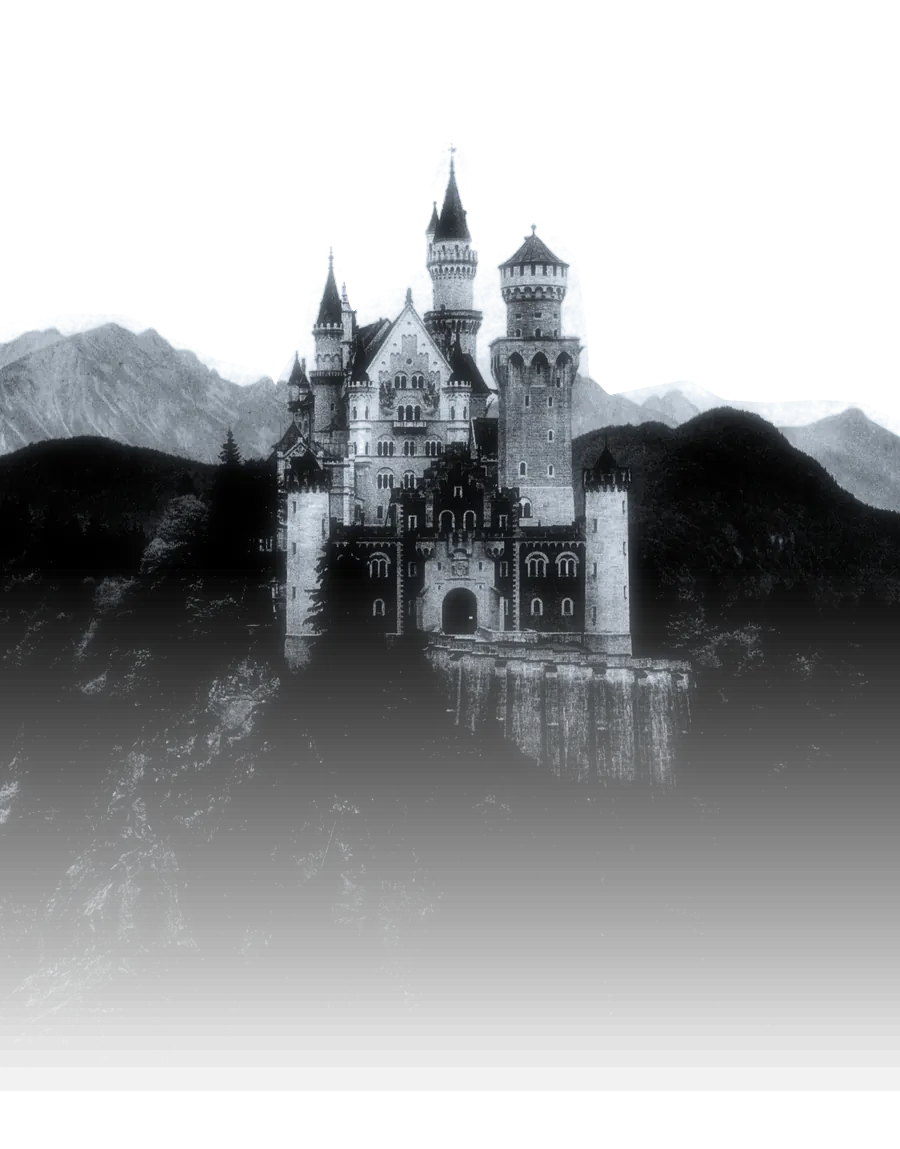
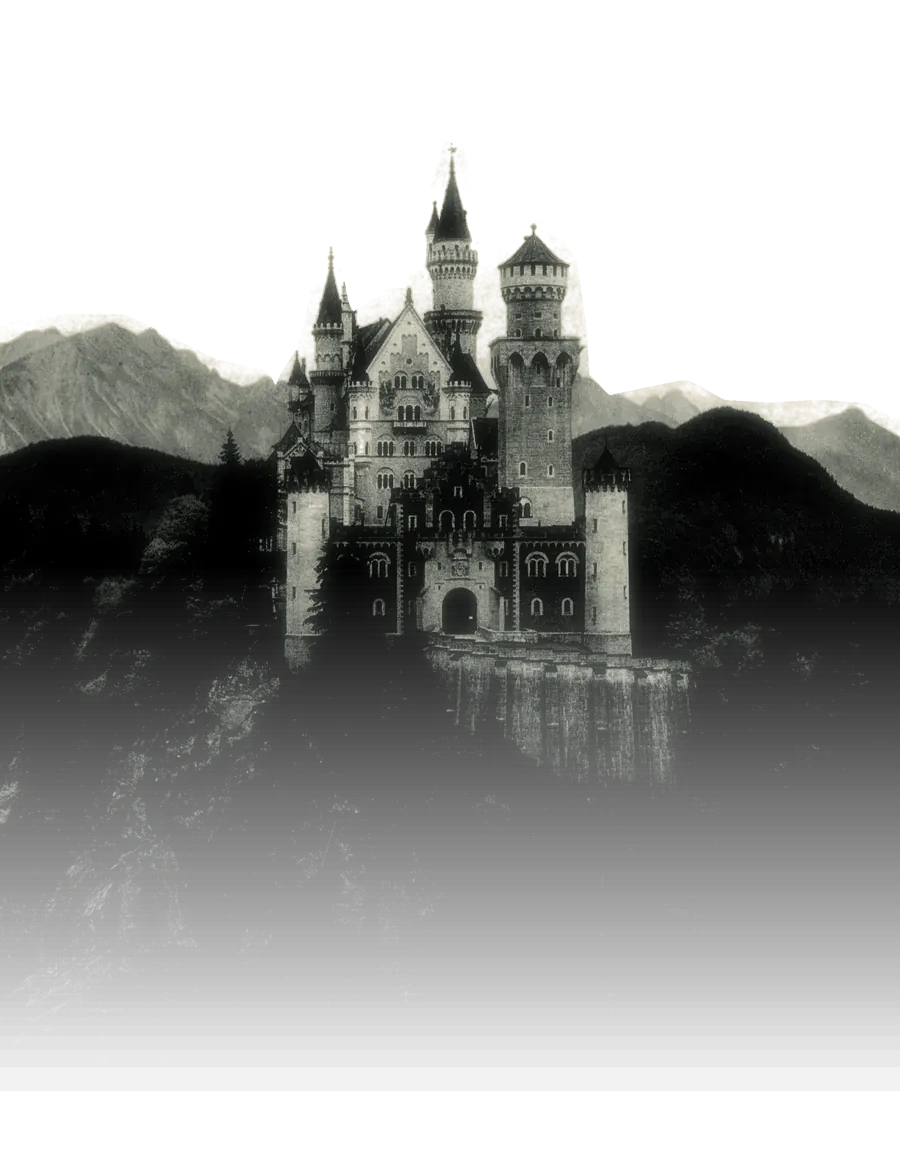
feat(invitation): switch theme to dark bottle green

Changed region(s): [[0.0, 0.1218, 1.0, 0.6092]]

diff --git a/src/app/globals.css b/src/app/globals.css
@@ -9,16 +9,16 @@
   --font-display: var(--font-viaoda), ui-serif, Georgia, serif;
   --font-script: var(--font-pinyon), ui-serif, Georgia, serif;
 
-  --color-midnight: var(--midnight);
-  --color-navy: var(--navy);
-  --color-deep-blue: var(--deep-blue);
+  --color-bottle-deep: var(--bottle-deep);
+  --color-bottle: var(--bottle);
+  --color-bottle-light: var(--bottle-light);
   --color-ivory: var(--ivory);
   --color-paper: var(--paper);
   --color-paper-shade: var(--paper-shade);
   --color-ink: var(--ink);
   --color-ink-muted: var(--ink-muted);
-  --color-hydrangea: var(--hydrangea);
-  --color-hydrangea-deep: var(--hydrangea-deep);
+  --color-sage: var(--sage);
+  --color-sage-deep: var(--sage-deep);
   --color-gold: var(--gold);
   --color-gold-deep: var(--gold-deep);
 
@@ -52,26 +52,27 @@
 :root {
   --radius: 0.625rem;
 
-  /* Night-blue palette. Contrast notes (WCAG):
-     ivory on navy 14.4:1, gold on navy 8:1, hydrangea on navy 9:1,
-     ink on paper 13.6:1, ink-muted on paper 6.3:1, gold-deep on paper 5:1. */
-  --midnight: #04122a;
-  --navy: #0b1f3a;
-  --deep-blue: #1b3a66;
+  /* Bottle-green palette. Contrast notes (WCAG):
+     ivory on bottle 12.8:1, gold on bottle 7.2:1, sage on bottle 7.8:1,
+     sage on bottle-light 4.5:1, ink on paper 14.3:1, ink-muted on paper 6.5:1,
+     gold-deep on paper 5:1, sage-deep on paper 5.7:1. */
+  --bottle-deep: #061a12;
+  --bottle: #0b2e22;
+  --bottle-light: #1a5640;
   --ivory: #f4efe6;
   --paper: #faf6ee;
   --paper-shade: #ece3d2;
-  --ink: #14284b;
-  --ink-muted: #4b5b78;
-  --hydrangea: #a9c1e3;
-  --hydrangea-deep: #4f72a6;
+  --ink: #13291f;
+  --ink-muted: #4a5e54;
+  --sage: #a9c3b0;
+  --sage-deep: #3f6b54;
   --gold: #d4b06a;
   --gold-deep: #8a6420;
 
   /* Ornament strokes; sky contexts override them with brighter tones. */
   --ornament-line: var(--gold-deep);
-  --ornament-petal: color-mix(in oklab, var(--hydrangea) 60%, transparent);
-  --ornament-petal-stroke: var(--hydrangea-deep);
+  --ornament-petal: color-mix(in oklab, var(--sage) 60%, transparent);
+  --ornament-petal-stroke: var(--sage-deep);
 
   /* Foil gradients for display text: bright on the night sky, deep on paper
      (darkest stops keep large text above 3:1 on its background). */
@@ -92,24 +93,24 @@
     #6e4f17 100%
   );
 
-  --background: var(--midnight);
+  --background: var(--bottle-deep);
   --foreground: var(--ivory);
   --card: var(--paper);
   --card-foreground: var(--ink);
   --popover: var(--paper);
   --popover-foreground: var(--ink);
-  --primary: var(--navy);
+  --primary: var(--bottle);
   --primary-foreground: var(--ivory);
   --secondary: var(--paper-shade);
   --secondary-foreground: var(--ink);
   --muted: var(--paper-shade);
   --muted-foreground: var(--ink-muted);
-  --accent: #e3ebf6;
+  --accent: #e4ede6;
   --accent-foreground: var(--ink);
   --destructive: #a33a2a;
   --border: #d9cdb5;
-  --input: #6b7a93;
-  /* Focus ring: 3.7:1 on paper and 4.2:1 on navy. */
+  --input: #6b7f74;
+  /* Focus ring: 3.7:1 on paper, 3.7:1 on bottle and 4.6:1 on bottle-deep. */
   --ring: #a07a30;
 }
 
@@ -141,9 +142,9 @@
     @apply border-border outline-ring/50;
   }
   html {
-    @apply bg-midnight;
+    @apply bg-bottle-deep;
   }
-  /* No body background: <html> already paints midnight, and a body background
+  /* No body background: <html> already paints bottle-deep green, and a body background
      would cover the fixed night sky that sits at a negative z-index. */
   body {
     @apply text-foreground font-sans;
@@ -152,6 +153,6 @@
     @apply outline-ring outline-2 outline-offset-2;
   }
   ::selection {
-    @apply bg-hydrangea text-ink;
+    @apply bg-sage text-ink;
   }
 }

diff --git a/src/styles/components/atoms/night-sky.css b/src/styles/components/atoms/night-sky.css
@@ -3,15 +3,15 @@
   background-image:
     radial-gradient(
       ellipse 120% 55% at 50% -12%,
-      color-mix(in oklab, var(--deep-blue) 80%, transparent),
+      color-mix(in oklab, var(--bottle-light) 80%, transparent),
       transparent 70%
     ),
     radial-gradient(
       ellipse 90% 45% at 50% 112%,
-      color-mix(in oklab, var(--deep-blue) 45%, transparent),
+      color-mix(in oklab, var(--bottle-light) 45%, transparent),
       transparent 70%
     ),
-    linear-gradient(180deg, var(--navy) 0%, var(--midnight) 100%);
+    linear-gradient(180deg, var(--bottle) 0%, var(--bottle-deep) 100%);
 }
 
 .night-sky--contained {
@@ -19,8 +19,8 @@
 }
 
 /* Library of Congress photochrom of Neuschwanstein (public domain), toned
-   ivory/powder blue with a transparent sky: screen blending lets the starry
-   navy show through, and the mask fades its top into the stars. */
+   warm ivory/pale sage with a transparent sky: screen blending lets the starry
+   bottle show through, and the mask fades its top into the stars. */
 .night-sky__castle {
   @apply absolute inset-x-0 top-[28%] -bottom-[18%] bg-cover bg-no-repeat opacity-20 mix-blend-screen;
   background-image: url('/images/neuschwanstein-photochrom-900.webp');
@@ -57,7 +57,7 @@
   @apply -right-28 bottom-[34%] rotate-[160deg];
 }
 
-/* Fine fractal noise, overlay-blended at half strength so the navy reads as
+/* Fine fractal noise, overlay-blended at half strength so the bottle green reads as
    printed stationery; one small tile rasterised once and repeated. */
 .night-sky__grain {
   @apply absolute inset-0 opacity-50 mix-blend-overlay;
@@ -82,7 +82,7 @@
     radial-gradient(1.6px 1.6px at 8% 12%, #f7e7b4, transparent),
     radial-gradient(1.2px 1.2px at 27% 64%, #f3dc9b, transparent),
     radial-gradient(2.2px 2.2px at 46% 22%, #f7e7b4, transparent),
-    radial-gradient(1px 1px at 61% 83%, #e9edf5, transparent),
+    radial-gradient(1px 1px at 61% 83%, #eef2ea, transparent),
     radial-gradient(1.4px 1.4px at 74% 41%, #d4b06a, transparent),
     radial-gradient(1.8px 1.8px at 89% 9%, #f3dc9b, transparent),
     radial-gradient(1.1px 1.1px at 93% 72%, #f7e7b4, transparent),
@@ -95,11 +95,11 @@
 .night-sky__dust--far {
   background-image:
     radial-gradient(1px 1px at 14% 33%, #d4b06a, transparent),
-    radial-gradient(0.9px 0.9px at 36% 8%, #e9edf5, transparent),
+    radial-gradient(0.9px 0.9px at 36% 8%, #eef2ea, transparent),
     radial-gradient(1.2px 1.2px at 52% 52%, #f3dc9b, transparent),
-    radial-gradient(0.8px 0.8px at 68% 27%, #a9c1e3, transparent),
+    radial-gradient(0.8px 0.8px at 68% 27%, #a9c3b0, transparent),
     radial-gradient(1px 1px at 82% 61%, #d4b06a, transparent),
-    radial-gradient(0.9px 0.9px at 6% 77%, #a9c1e3, transparent),
+    radial-gradient(0.9px 0.9px at 6% 77%, #a9c3b0, transparent),
     radial-gradient(1.1px 1.1px at 44% 88%, #f7e7b4, transparent);
   background-size: 190px 190px;
   rotate: 21deg;

diff --git a/src/styles/domains/invitation/gallery-lightbox.css b/src/styles/domains/invitation/gallery-lightbox.css
@@ -11,7 +11,7 @@
 }
 
 .gallery-lightbox::backdrop {
-  background-color: color-mix(in oklab, var(--midnight) 94%, transparent);
+  background-color: color-mix(in oklab, var(--bottle-deep) 94%, transparent);
 }
 
 html:has(.gallery-lightbox[open]) {
@@ -24,7 +24,7 @@ html:has(.gallery-lightbox[open]) {
 
 .gallery-lightbox__close {
   @apply border-gold/60 text-gold col-start-3 row-start-1 mr-4 rounded-full border px-4 py-2 text-[0.7rem] tracking-[0.25em] uppercase;
-  @apply hover:bg-gold hover:text-navy focus-visible:outline-gold focus-visible:outline-2 focus-visible:outline-offset-2;
+  @apply hover:bg-gold hover:text-bottle focus-visible:outline-gold focus-visible:outline-2 focus-visible:outline-offset-2;
 }
 
 .gallery-lightbox__figure {
@@ -41,8 +41,8 @@ html:has(.gallery-lightbox[open]) {
 }
 
 .gallery-lightbox__nav {
-  @apply border-gold/50 bg-navy/70 text-gold z-10 row-start-2 grid size-11 place-items-center rounded-full border backdrop-blur-sm;
-  @apply hover:bg-gold hover:text-navy focus-visible:outline-gold focus-visible:outline-2 focus-visible:outline-offset-2;
+  @apply border-gold/50 bg-bottle/70 text-gold z-10 row-start-2 grid size-11 place-items-center rounded-full border backdrop-blur-sm;
+  @apply hover:bg-gold hover:text-bottle focus-visible:outline-gold focus-visible:outline-2 focus-visible:outline-offset-2;
 }
 
 .gallery-lightbox__nav svg {

diff --git a/src/styles/domains/invitation/invitation-cover.css b/src/styles/domains/invitation/invitation-cover.css
@@ -1,5 +1,5 @@
 .invitation-cover {
-  @apply bg-midnight fixed inset-0 isolate z-50 flex overflow-x-hidden overflow-y-auto overscroll-contain;
+  @apply bg-bottle-deep fixed inset-0 isolate z-50 flex overflow-x-hidden overflow-y-auto overscroll-contain;
   /* Dissolve once the card has risen; keep in sync with the hook timeline. */
   transition:
     opacity 750ms ease 1750ms,
@@ -72,7 +72,7 @@
 }
 
 .invitation-cover__card-ampersand {
-  @apply text-hydrangea-deep mx-1 text-[0.6em];
+  @apply text-sage-deep mx-1 text-[0.6em];
 }
 
 .invitation-cover__text {
@@ -88,7 +88,7 @@
 }
 
 .invitation-cover__greeting {
-  @apply font-script text-hydrangea text-3xl;
+  @apply font-script text-sage text-3xl;
 }
 
 .invitation-cover__text,
@@ -188,7 +188,7 @@
 
 .invitation-cover__button {
   @apply border-gold bg-gold/10 text-gold inline-flex min-h-12 items-center justify-center rounded-full border px-9 text-xs tracking-[0.3em] uppercase transition-colors;
-  @apply hover:bg-gold hover:text-navy focus-visible:outline-gold focus-visible:outline-2 focus-visible:outline-offset-4;
+  @apply hover:bg-gold hover:text-bottle focus-visible:outline-gold focus-visible:outline-2 focus-visible:outline-offset-4;
 }
 
 /* Without JavaScript the envelope could never open: show the page instead. */

diff --git a/src/styles/components/atoms/external-link.css b/src/styles/components/atoms/external-link.css
@@ -1,12 +1,12 @@
 .external-link {
-  @apply border-navy bg-navy text-ivory inline-flex min-h-12 items-center justify-center gap-2 rounded-full border px-7 text-xs tracking-[0.22em] uppercase transition-colors;
-  @apply hover:bg-deep-blue focus-visible:outline-ring focus-visible:outline-2 focus-visible:outline-offset-2;
+  @apply border-bottle bg-bottle text-ivory inline-flex min-h-12 items-center justify-center gap-2 rounded-full border px-7 text-xs tracking-[0.22em] uppercase transition-colors;
+  @apply hover:bg-bottle-light focus-visible:outline-ring focus-visible:outline-2 focus-visible:outline-offset-2;
 }
 
 .external-link--outline {
-  @apply text-ink hover:bg-navy hover:text-ivory bg-transparent;
+  @apply text-ink hover:bg-bottle hover:text-ivory bg-transparent;
 }
 
 .external-link--gold {
-  @apply border-gold bg-gold/10 text-gold hover:bg-gold hover:text-navy;
+  @apply border-gold bg-gold/10 text-gold hover:bg-gold hover:text-bottle;
 }

diff --git a/src/styles/domains/invitation/gallery-section.css b/src/styles/domains/invitation/gallery-section.css
@@ -47,7 +47,7 @@
 }
 
 .gallery-deck-card__link {
-  @apply ring-gold/70 bg-navy relative block size-full overflow-hidden rounded-2xl ring-1;
+  @apply ring-gold/70 bg-bottle relative block size-full overflow-hidden rounded-2xl ring-1;
   @apply focus-visible:outline-gold focus-visible:outline-2 focus-visible:outline-offset-4;
   box-shadow:
     0 26px 40px -22px rgb(0 0 0 / 0.85),
@@ -81,7 +81,7 @@
 /* Swipe is the primary gesture on phones; arrows appear from tablet up. */
 .gallery-deck__arrow {
   @apply border-gold/60 text-gold hidden size-9 flex-none items-center justify-center rounded-full border transition-colors md:flex;
-  @apply hover:bg-gold hover:text-navy focus-visible:outline-gold focus-visible:outline-2 focus-visible:outline-offset-2;
+  @apply hover:bg-gold hover:text-bottle focus-visible:outline-gold focus-visible:outline-2 focus-visible:outline-offset-2;
 }
 
 .gallery-deck__arrow svg {

diff --git a/src/styles/domains/invitation/music-player.css b/src/styles/domains/invitation/music-player.css
@@ -1,9 +1,9 @@
 .music-player {
-  @apply border-gold/80 bg-navy/85 text-gold fixed right-4 z-40 grid size-12 place-items-center rounded-full border backdrop-blur-sm transition-colors;
-  @apply hover:bg-deep-blue focus-visible:outline-gold focus-visible:outline-2 focus-visible:outline-offset-4;
+  @apply border-gold/80 bg-bottle/85 text-gold fixed right-4 z-40 grid size-12 place-items-center rounded-full border backdrop-blur-sm transition-colors;
+  @apply hover:bg-bottle-light focus-visible:outline-gold focus-visible:outline-2 focus-visible:outline-offset-4;
   bottom: max(1rem, env(safe-area-inset-bottom));
   box-shadow:
-    0 0 0 4px rgb(4 18 42 / 0.55),
+    0 0 0 4px rgb(6 26 18 / 0.55),
     0 10px 24px -8px rgb(0 0 0 / 0.7);
 }
 

diff --git a/src/styles/domains/invitation/countdown.css b/src/styles/domains/invitation/countdown.css
@@ -26,7 +26,7 @@
   @apply border-gold/70 relative grid aspect-square w-full max-w-24 place-items-center overflow-hidden rounded-full border;
   background-image: radial-gradient(
     circle at 50% 30%,
-    color-mix(in oklab, var(--deep-blue) 70%, transparent),
+    color-mix(in oklab, var(--bottle-light) 70%, transparent),
     transparent 75%
   );
 }
@@ -41,7 +41,7 @@
 }
 
 .countdown-unit__label {
-  @apply text-hydrangea text-[0.65rem] tracking-[0.2em] uppercase;
+  @apply text-sage text-[0.65rem] tracking-[0.2em] uppercase;
 }
 
 .countdown-section__actions {

diff --git a/src/styles/domains/invitation/invitation-page.css b/src/styles/domains/invitation/invitation-page.css
@@ -11,11 +11,11 @@
   @apply px-4 py-6 sm:py-10;
 }
 
-/* Sky contexts use brighter ornament tones for legibility on navy. */
+/* Sky contexts use brighter ornament tones for legibility on bottle. */
 .section-heading--sky,
 .invitation-cover,
 .invitation-closing {
   --ornament-line: var(--gold);
-  --ornament-petal: color-mix(in oklab, var(--hydrangea) 35%, transparent);
-  --ornament-petal-stroke: var(--hydrangea);
+  --ornament-petal: color-mix(in oklab, var(--sage) 35%, transparent);
+  --ornament-petal-stroke: var(--sage);
 }

diff --git a/src/styles/domains/invitation/invitation-closing.css b/src/styles/domains/invitation/invitation-closing.css
@@ -15,7 +15,7 @@
 }
 
 .invitation-closing__credit {
-  @apply text-hydrangea/80 mt-6 max-w-sm text-[0.7rem] leading-relaxed;
+  @apply text-sage/80 mt-6 max-w-sm text-[0.7rem] leading-relaxed;
   overflow-wrap: anywhere;
 }
 
@@ -24,5 +24,5 @@
 }
 
 .invitation-closing__credit-link {
-  @apply decoration-hydrangea/50 hover:text-ivory underline underline-offset-2;
+  @apply decoration-sage/50 hover:text-ivory underline underline-offset-2;
 }

diff --git a/src/styles/domains/guestbook/signature-card.css b/src/styles/domains/guestbook/signature-card.css
@@ -20,9 +20,9 @@
   box-shadow: 0 18px 30px -18px rgb(0 0 0 / 0.8);
 }
 
-/* Strip of powder-blue tape holding the note. */
+/* Strip of pale sage tape holding the note. */
 .signature-card::before {
-  @apply bg-hydrangea/60 pointer-events-none absolute -top-2 left-1/2 h-5 w-20 -translate-x-1/2 -rotate-3;
+  @apply bg-sage/60 pointer-events-none absolute -top-2 left-1/2 h-5 w-20 -translate-x-1/2 -rotate-3;
   content: '';
 }
 

diff --git a/src/components/atoms/watercolor-floral.tsx b/src/components/atoms/watercolor-floral.tsx
@@ -12,7 +12,7 @@ interface WatercolorFloralProps {
 }
 
 // Pierre-Joseph Redouté plates (public domain, see README), keyed to alpha
-// and recoloured to hydrangea blue with sage leaves.
+// and recoloured to ivory and blush cream with sage leaves.
 const FLORAL_SOURCES = {
   rose: { src: '/images/watercolor-rose.webp', width: 720, height: 397 },
   hydrangea: {
